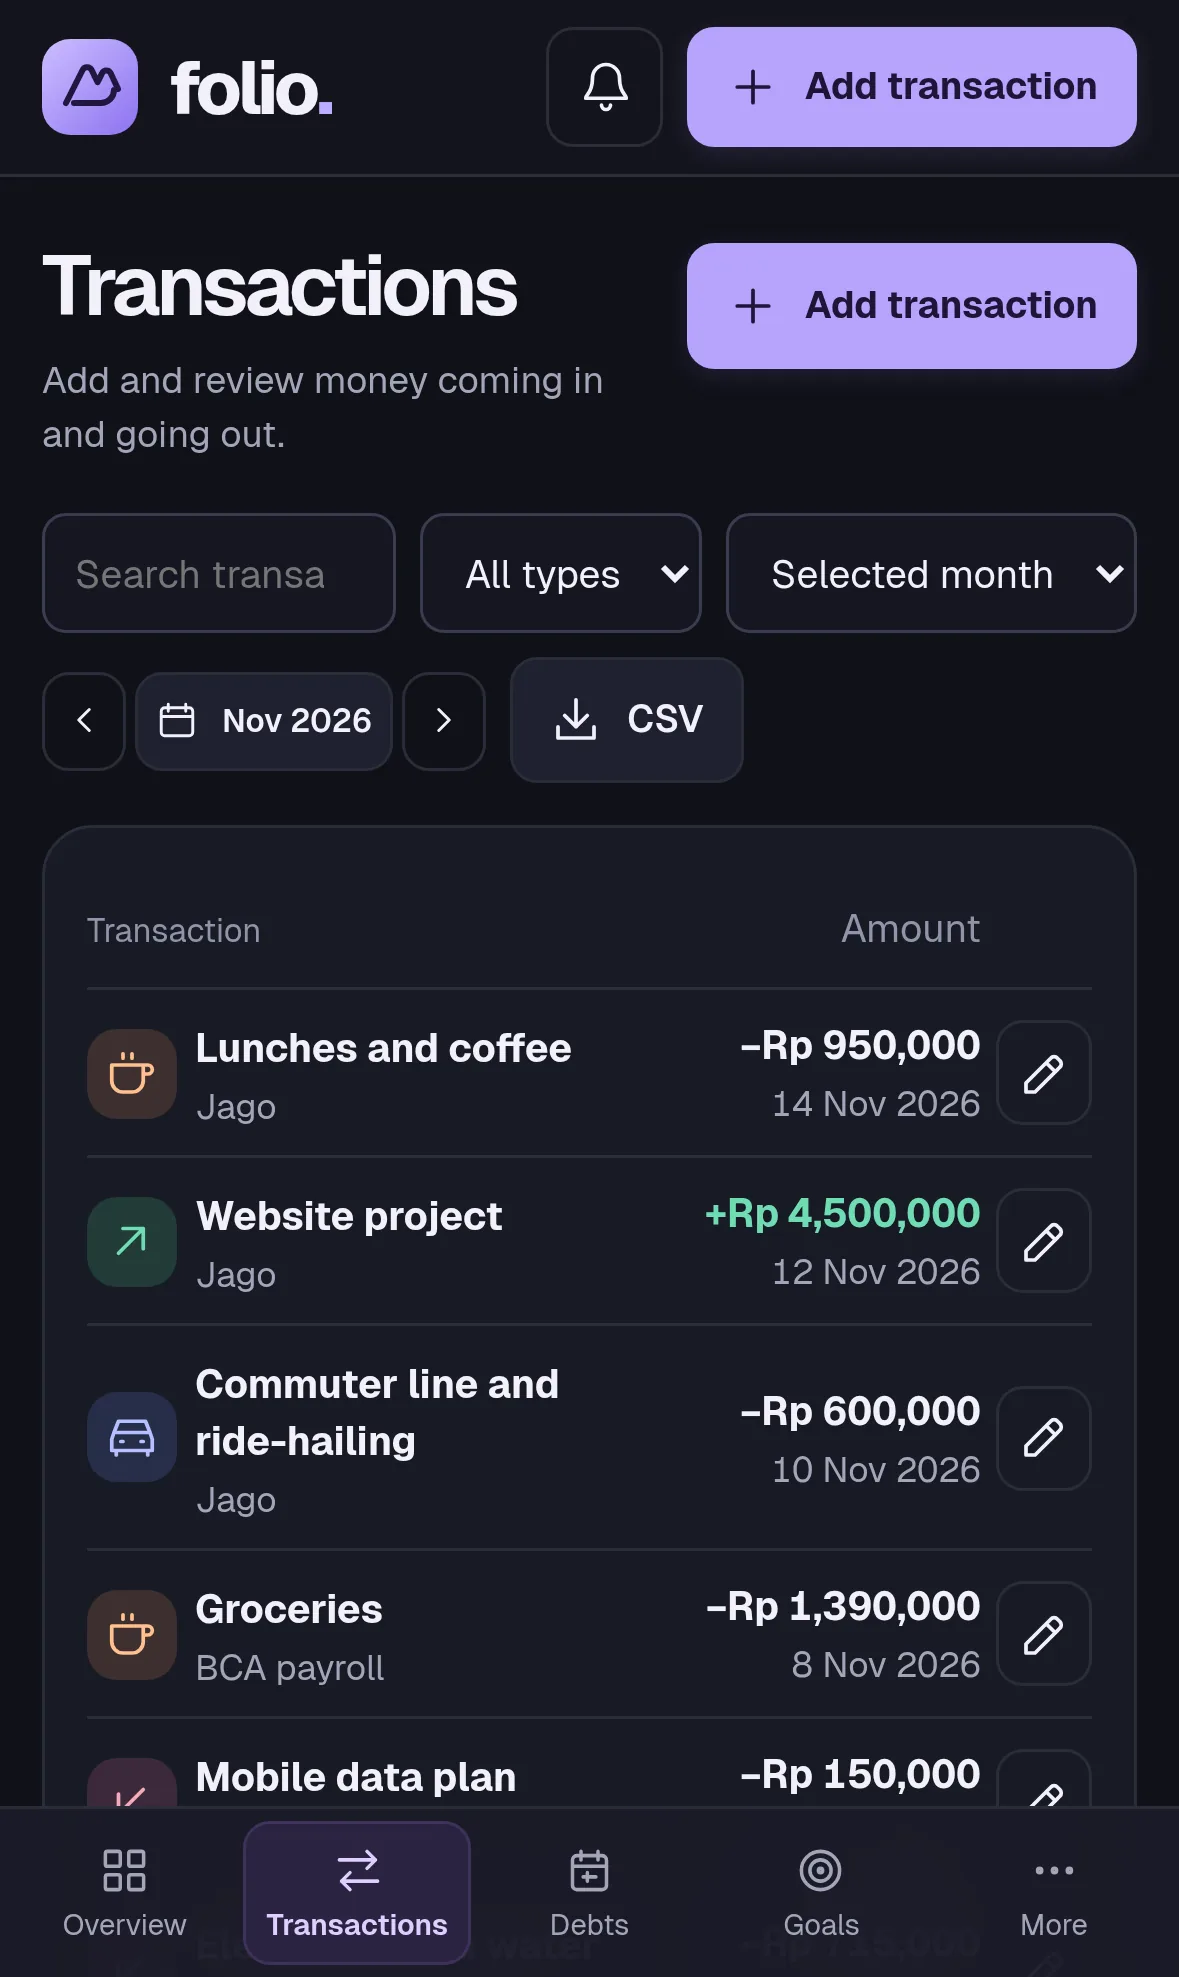
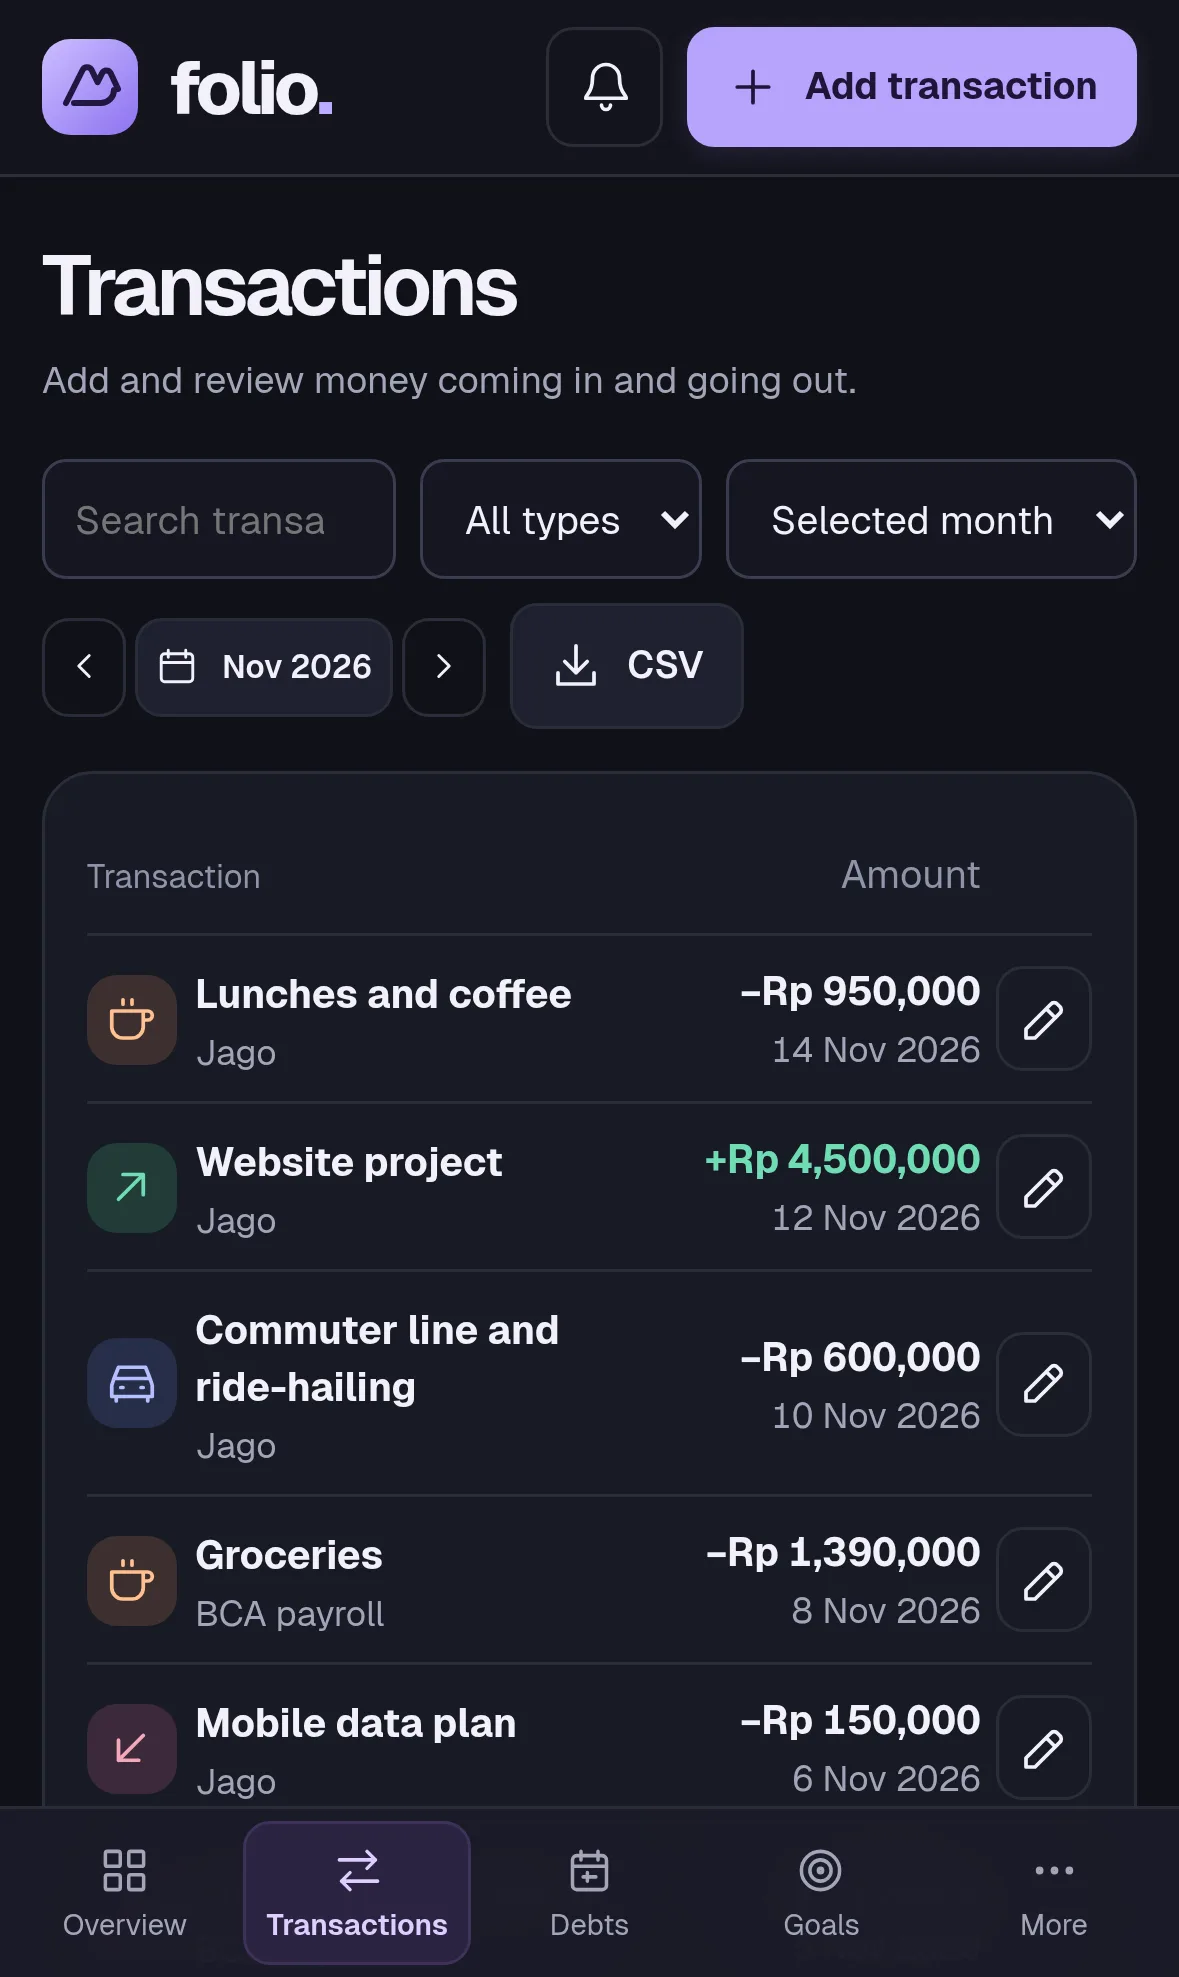
Header room below the notch; single Add transaction button

diff --git a/public/app.js b/public/app.js
@@ -220,7 +220,7 @@ function transactionRows() {
  return filteredTransactions().map(item=>'<div class="list-item transaction-row"><div class="tx-name">'+txIcon(item)+'<div class="row-main"><strong>'+safe(item.title)+'</strong><small>'+safe(item.balanceAdjustment?'Balance correction'+(item.note?' · '+item.note:''):item.account||item.category)+'</small></div></div><span class="cell">'+safe(item.category)+'</span><span class="cell">'+safe(displayDate(item.date))+'</span><div class="amount">'+txText(item)+'<small>'+safe(item.currency===state.currency?displayDate(item.date):'≈ '+report(base(item)))+'</small></div>'+iconButton('transaction','Edit '+item.title,'edit',attr(item))+'</div>').join('')||empty('No transactions match your filters.');
 }
 function transactions() {
- return title('Transactions','Add and review money coming in and going out.',button('transaction','Add transaction','plus','btn primary'))+
+ return title('Transactions','Add and review money coming in and going out.')+
  '<div class="toolbar"><div class="filters"><input id="tx-search" type="search" placeholder="Search transactions" aria-label="Search transactions" value="'+safe(filter.query)+'"><select id="tx-type" aria-label="Transaction type">'+optionList([['all','All types'],['income','Income'],['expense','Expense']],filter.type)+'</select><select id="tx-period" aria-label="Transaction period">'+optionList([['month','Selected month'],['all','All dates']],filter.period)+'</select></div><div class="cluster">'+monthControl()+button('csv','CSV','download')+'</div></div>'+
  '<section class="panel table-panel" aria-label="Transaction list"><div class="transaction-row table-head" aria-hidden="true"><span>Transaction</span><span class="cell">Category</span><span class="cell">Date</span><span class="amount">Amount</span><span></span></div><div id="transaction-list">'+transactionRows()+'</div></section>';
 }

diff --git a/public/style.css b/public/style.css
@@ -89,3 +89,4 @@ dialog{border:1px solid #434052;border-radius:19px;background:#1d1e2b;color:var(
 @media(max-width:780px){.topbar{height:calc(59px + env(safe-area-inset-top));padding-top:env(safe-area-inset-top)}}
 @media(max-width:760px){.auth-art{padding-top:calc(20px + env(safe-area-inset-top))}}
 @media(prefers-reduced-motion:reduce){*,*::before,*::after{animation:none!important;scroll-behavior:auto!important;transition:none!important}}
+@media(display-mode:standalone) and (max-width:780px){.topbar{padding-top:calc(12px + env(safe-area-inset-top));height:calc(71px + env(safe-area-inset-top))}}

diff --git a/CHANGELOG.md b/CHANGELOG.md
@@ -4,7 +4,8 @@
 
 ## 1.2.1 (2026-11-20)
 
-- iPhone home-screen app: the status bar is now solid, so the app starts below the notch and nothing scrolls behind the clock. Remove Folio from the home screen and add it again to pick up the change.
+- iPhone home-screen app: the status bar is now solid and the header sits 12 px lower, so the logo and buttons stay clear of the notch and nothing scrolls behind the clock. Remove Folio from the home screen and add it again to pick up the change.
+- Transactions page: removed the second "Add transaction" button; the one in the top bar stays on every page.
 
 ## 1.2.0 (2026-11-20)
 
